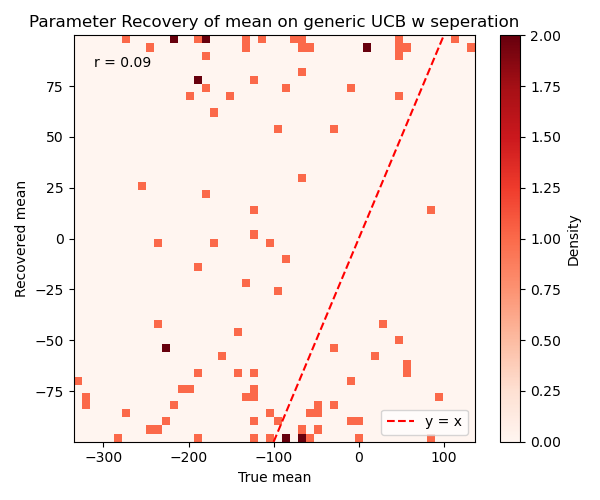
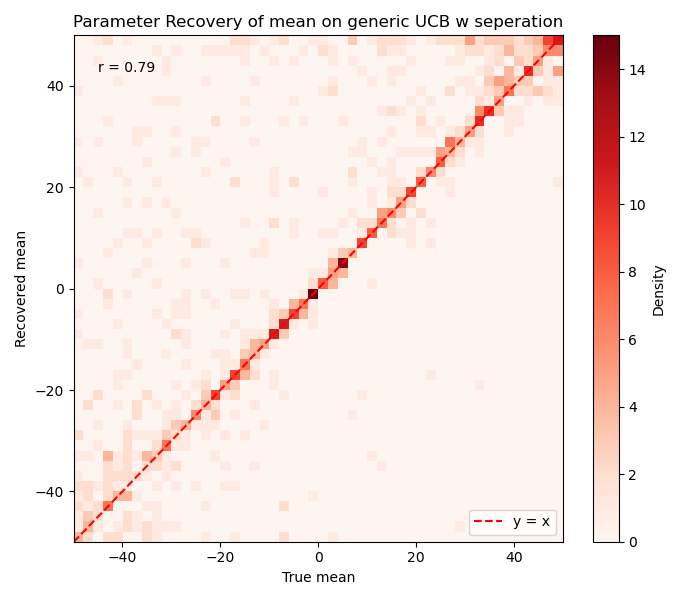
feat: add model recovery with BIC

diff --git a/recovery.py b/recovery.py
@@ -1,12 +1,16 @@
 import numpy as np
 import json
 import optuna
-from tqdm import tqdm
 from multiprocessing import Pool, set_start_method, cpu_count
+from optuna.samplers import TPESampler
 
-from variable import horizon, tot_env, strategy, st_varaible, recovery_range, n_recovery
+from variable import horizon, tot_env, strategy, st_varaible, recovery_range, n_recovery, variables
 from function import get_action, simulate
 
+import warnings
+from optuna._experimental import ExperimentalWarning
+
+warnings.filterwarnings("ignore", category=ExperimentalWarning)
 optuna.logging.set_verbosity(optuna.logging.ERROR)
 
 
@@ -47,38 +51,9 @@ def cross_entropy_loss(params, actions, rewards, envs, option):
 
 def build_objective(actions, rewards, envs, s, var_len, initial_params=None):
     def objective(trial):
-        suggest_args = {}
-        if var_len == 4:
-            suggest_args["beta"] = trial.suggest_float("beta", recovery_range["beta"][0], recovery_range["beta"][1])
-            suggest_args["mean"] = trial.suggest_float("mean", recovery_range["mean"][0], recovery_range["mean"][1])
-            suggest_args["noise"] = trial.suggest_float("noise", recovery_range["noise"][0], recovery_range["noise"][1])
-            suggest_args["temp"] = trial.suggest_float("temp", recovery_range["temp"][0], recovery_range["temp"][1])
-            params = [suggest_args["beta"], suggest_args["mean"], suggest_args["noise"], suggest_args["temp"]]
-        elif var_len == 5:
-            suggest_args["beta"] = trial.suggest_float("beta", recovery_range["beta"][0], recovery_range["beta"][1])
-            suggest_args["beta2"] = trial.suggest_float("beta2", recovery_range["beta2"][0], recovery_range["beta2"][1])
-            suggest_args["mean"] = trial.suggest_float("mean", recovery_range["mean"][0], recovery_range["mean"][1])
-            suggest_args["noise"] = trial.suggest_float("noise", recovery_range["noise"][0], recovery_range["noise"][1])
-            suggest_args["temp"] = trial.suggest_float("temp", recovery_range["temp"][0], recovery_range["temp"][1])
-            params = [suggest_args["beta"], suggest_args["beta2"], suggest_args["mean"], suggest_args["noise"], suggest_args["temp"]]
-        elif var_len == 6:
-            suggest_args["alpha"] = trial.suggest_float("alpha", recovery_range["alpha"][0], recovery_range["alpha"][1])
-            suggest_args["beta"] = trial.suggest_float("beta", recovery_range["beta"][0], recovery_range["beta"][1])
-            suggest_args["lambda"] = trial.suggest_float("lambda", recovery_range["lambda"][0], recovery_range["lambda"][1])
-            suggest_args["mean"] = trial.suggest_float("mean", recovery_range["mean"][0], recovery_range["mean"][1])
-            suggest_args["noise"] = trial.suggest_float("noise", recovery_range["noise"][0], recovery_range["noise"][1])
-            suggest_args["temp"] = trial.suggest_float("temp", recovery_range["temp"][0], recovery_range["temp"][1])
-            params = [suggest_args["alpha"], suggest_args["beta"], suggest_args["lambda"], suggest_args["mean"], suggest_args["noise"], suggest_args["temp"]]
-        else: # len(params) == 7
-            suggest_args["alpha"] = trial.suggest_float("alpha", recovery_range["alpha"][0], recovery_range["alpha"][1])
-            suggest_args["beta"] = trial.suggest_float("beta", recovery_range["beta"][0], recovery_range["beta"][1])
-            suggest_args["beta2"] = trial.suggest_float("beta2", recovery_range["beta2"][0], recovery_range["beta2"][1])
-            suggest_args["lambda"] = trial.suggest_float("lambda", recovery_range["lambda"][0], recovery_range["lambda"][1])
-            suggest_args["mean"] = trial.suggest_float("mean", recovery_range["mean"][0], recovery_range["mean"][1])
-            suggest_args["noise"] = trial.suggest_float("noise", recovery_range["noise"][0], recovery_range["noise"][1])
-            suggest_args["temp"] = trial.suggest_float("temp", recovery_range["temp"][0], recovery_range["temp"][1])
-            params = [suggest_args["alpha"], suggest_args["beta"], suggest_args["beta2"], suggest_args["lambda"], suggest_args["mean"], suggest_args["noise"], suggest_args["temp"]]
-
+        params = []
+        for key in variables[var_len] :
+            params.append(trial.suggest_float(key, recovery_range[key][0], recovery_range[key][1]))
         return cross_entropy_loss(params, actions, rewards, envs, s)
 
     return objective
@@ -94,9 +69,10 @@ def process_single_run(args):
 
     var_len = len(initial_param)
     objective = build_objective(actions, rewards, envs, s, var_len)
-
-    study = optuna.create_study(direction="minimize")
-    study.optimize(objective, n_trials=200, n_jobs=1, show_progress_bar=False)
+    
+    sampler = TPESampler(multivariate=True)
+    study = optuna.create_study(direction="minimize", sampler=sampler)
+    study.optimize(objective, n_trials=400, n_jobs=1, show_progress_bar=False)
 
     best_params = study.best_params
     ordered = [best_params[k] for k in st_varaible[name]]
@@ -109,7 +85,7 @@ if __name__ == "__main__":
     envs = tot_env[1]
     
     for s, name in enumerate(strategy): 
-        print(f"[{name}]")
+        print(f"[{name} is currently working", end = " ")
 
         initial_params_list = []
         for _ in range(n_recovery):
@@ -121,7 +97,13 @@ if __name__ == "__main__":
         args_list = [(param, s, name, envs) for param in initial_params_list]
 
         with Pool(processes=cpu_count()) as pool:
-            recovered_results = list(tqdm(pool.imap_unordered(process_single_run, args_list), total=len(args_list)))
+            result_iter = pool.imap(process_single_run, args_list)
+            recovered_results = []
+
+            for res in result_iter:
+                recovered_results.append(res)
 
         with open(f"params/recovered_params_{name}_optuna.json", "w") as f:
             json.dump([initial_params_list, recovered_results], f, indent=4)
+        
+        print("- finished]")

diff --git a/model.py b/model.py
@@ -1,0 +1,123 @@
+import numpy as np
+import json
+import optuna
+from tqdm import tqdm
+from multiprocessing import Pool, cpu_count
+from optuna.samplers import TPESampler
+
+from variable import horizon, tot_env, strategy, st_varaible, recovery_range, n_recovery, variables
+from function import get_action, simulate
+
+import warnings
+from optuna._experimental import ExperimentalWarning
+
+warnings.filterwarnings("ignore", category=ExperimentalWarning)
+optuna.logging.set_verbosity(optuna.logging.ERROR)
+
+def BIC_calculate(num_params, log_likelihoods, num_samples) :
+    """
+        Calculate BIC
+
+        Args:
+            num_params (int or int numpy array) 
+            log_liklihoods (float or float numpy array)
+            num_samples (int or int numpy array)
+
+        Returns:
+            BICs (float or float numpy array)
+    """
+    return -2 * log_likelihoods + num_params * np.log(num_samples)
+
+def cross_entropy_loss(params, actions, rewards, envs, option):
+    res = 0
+    alpha, beta2, lam = 1, 1, 1
+
+    if len(params) == 4:
+        beta, mean, noise, temp = params
+    elif len(params) == 5:
+        beta, beta2, mean, noise, temp = params
+    elif len(params) == 6:
+        alpha, beta, lam, mean, noise, temp = params
+    else:
+        alpha, beta, beta2, lam, mean, noise, temp = params
+
+    for num_e, env in enumerate(envs):
+        result = 0
+        mu_post = np.array([mean] * 10)
+        sigma_post = np.array([noise] * 10)
+        sigma_0 = noise
+        epsilon = 1e-9
+
+        for t in range(horizon):
+            action, reward = actions[num_e][t], rewards[num_e][t]
+            p = get_action(mu_post, sigma_post, option, result, alpha=alpha, beta=beta, beta2=beta2, lam=lam)
+            p = np.exp((p - np.max(p)) / temp)
+            p = p / np.sum(p)
+            res -= np.log(p[action] + epsilon)
+
+            result += reward
+            K_t = sigma_post[action] / (sigma_post[action] + sigma_0)
+            sigma_post[action] = (1 - K_t) * sigma_post[action]
+            mu_post[action] += K_t * (reward - mu_post[action])
+
+    return res
+
+
+def build_objective(actions, rewards, envs, s, var_len, initial_params=None):
+    def objective(trial):
+        params = []
+        for key in variables[var_len] :
+            params.append(trial.suggest_float(key, recovery_range[key][0], recovery_range[key][1]))
+        return cross_entropy_loss(params, actions, rewards, envs, s)
+
+    return objective
+
+
+def process_single_run(initial_param, s, name, envs):
+    actions, rewards = [], []
+    for env in envs:
+        a, r, _, _ = simulate(initial_param, s, env)
+        actions.append(a)
+        rewards.append(r)
+
+    num_params, num_samples, likelihoods = np.array([]), np.array([]), np.array([])
+    
+    # tqdm을 사용하여 외부 루프에 진행률 표시
+    for current_s, current_name in enumerate(strategy): 
+        var_len = len(st_varaible[current_name])
+        objective = build_objective(actions, rewards, envs, current_s, var_len)
+
+        sampler = TPESampler(multivariate=True)
+        study = optuna.create_study(direction="minimize", sampler=sampler)
+        study.optimize(objective, n_trials=300, n_jobs=1, show_progress_bar=False) # n_jobs=1로 설정하여 병렬 처리 비활성화
+
+        likelihoods = np.append(likelihoods, -study.best_value) # cross entropy loss가 아니라 log-likelihood 저장
+        num_params = np.append(num_params, var_len)
+        num_samples = np.append(num_samples, len(envs))
+
+    return BIC_calculate(num_params, likelihoods, num_samples)
+
+
+
+if __name__ == "__main__":
+    envs = tot_env[1]
+
+    for s, name in enumerate(strategy): 
+        print(f"[{name} is currently working", end=" ")
+
+        initial_params_list = []
+        for _ in range(n_recovery):
+            param = []
+            for var_name in st_varaible[name]:
+                param.append(np.random.uniform(recovery_range[var_name][0], recovery_range[var_name][1], 1)[0])
+            initial_params_list.append(param)
+
+        args_list = [(param, s, name, envs) for param in initial_params_list]
+
+        with Pool(processes=4) as pool:
+            recovered_results = pool.starmap(process_single_run, args_list)
+
+        with open(f"params/model_recovery/recovered_models_{name}_optuna.json", "w") as f:
+            json.dump([initial_params_list, recovered_results], f, indent=4)
+        
+        print("- finished]")

diff --git a/test.py b/test.py
@@ -9,20 +9,22 @@ from function import prospect, select_arm, simulate
 
 
 for s, name in enumerate(strategy):
+    print(f"[{name}]")
     try:
         with open(f"params/recovered_params_{name}_optuna.json", "r") as f:
-            params, recovereds = np.array(json.load(f))
+            params, recovereds = json.load(f)
     except FileNotFoundError:
         print(f"{name} is not recovered")
         continue
     
+    #print(params[0], recovereds[0])
     for k, key in enumerate(st_varaible[name]):
         x = [params[i][k] for i in range(n_recovery)]
         y = [recovereds[i][k] for i in range(n_recovery)]
 
         r, p = pearsonr(x, y)
 
-        plt.figure(figsize=(6, 5))
+        plt.figure(figsize=(7, 6))
         plt.title(f"Parameter Recovery of {key} on {name}")
 
         plt.hist2d(x, y, bins=50, cmap="Reds")

diff --git a/variable.py b/variable.py
@@ -30,7 +30,12 @@ st_varaible = {
    'relative prospect UCB (inner) w seperation' : ['alpha', 'beta', 'beta2', 'lambda', 'mean', 'noise', 'temp']
 }
 
-variables = ['alpha', 'beta', 'lambda', 'mean', 'noise', 'temp']
+variables = {
+    4 : ['beta', 'mean', 'noise', 'temp'],
+    5 : ['beta', 'beta2', 'mean', 'noise', 'temp'],
+    6 : ['alpha', 'beta', 'lambda', 'mean', 'noise', 'temp'],
+    7 : ['alpha', 'beta', 'beta2', 'lambda', 'mean', 'noise', 'temp'],
+}
 
 n_envs = len(tot_env)
 n_strategies = len(strategy)
@@ -50,9 +55,9 @@ recovery_range = {
     'beta' : [0, 10],
     'beta2' : [0, 10],
     'lambda' : [0, 10],
-    'mean' : [-100, 100],
+    'mean' : [-50, 50],
     'noise' : [0.1, 20],
-    'temp' : [0.01, 10]
+    'temp' : [0.1, 5]
 }
 
 n_recovery = 1000
